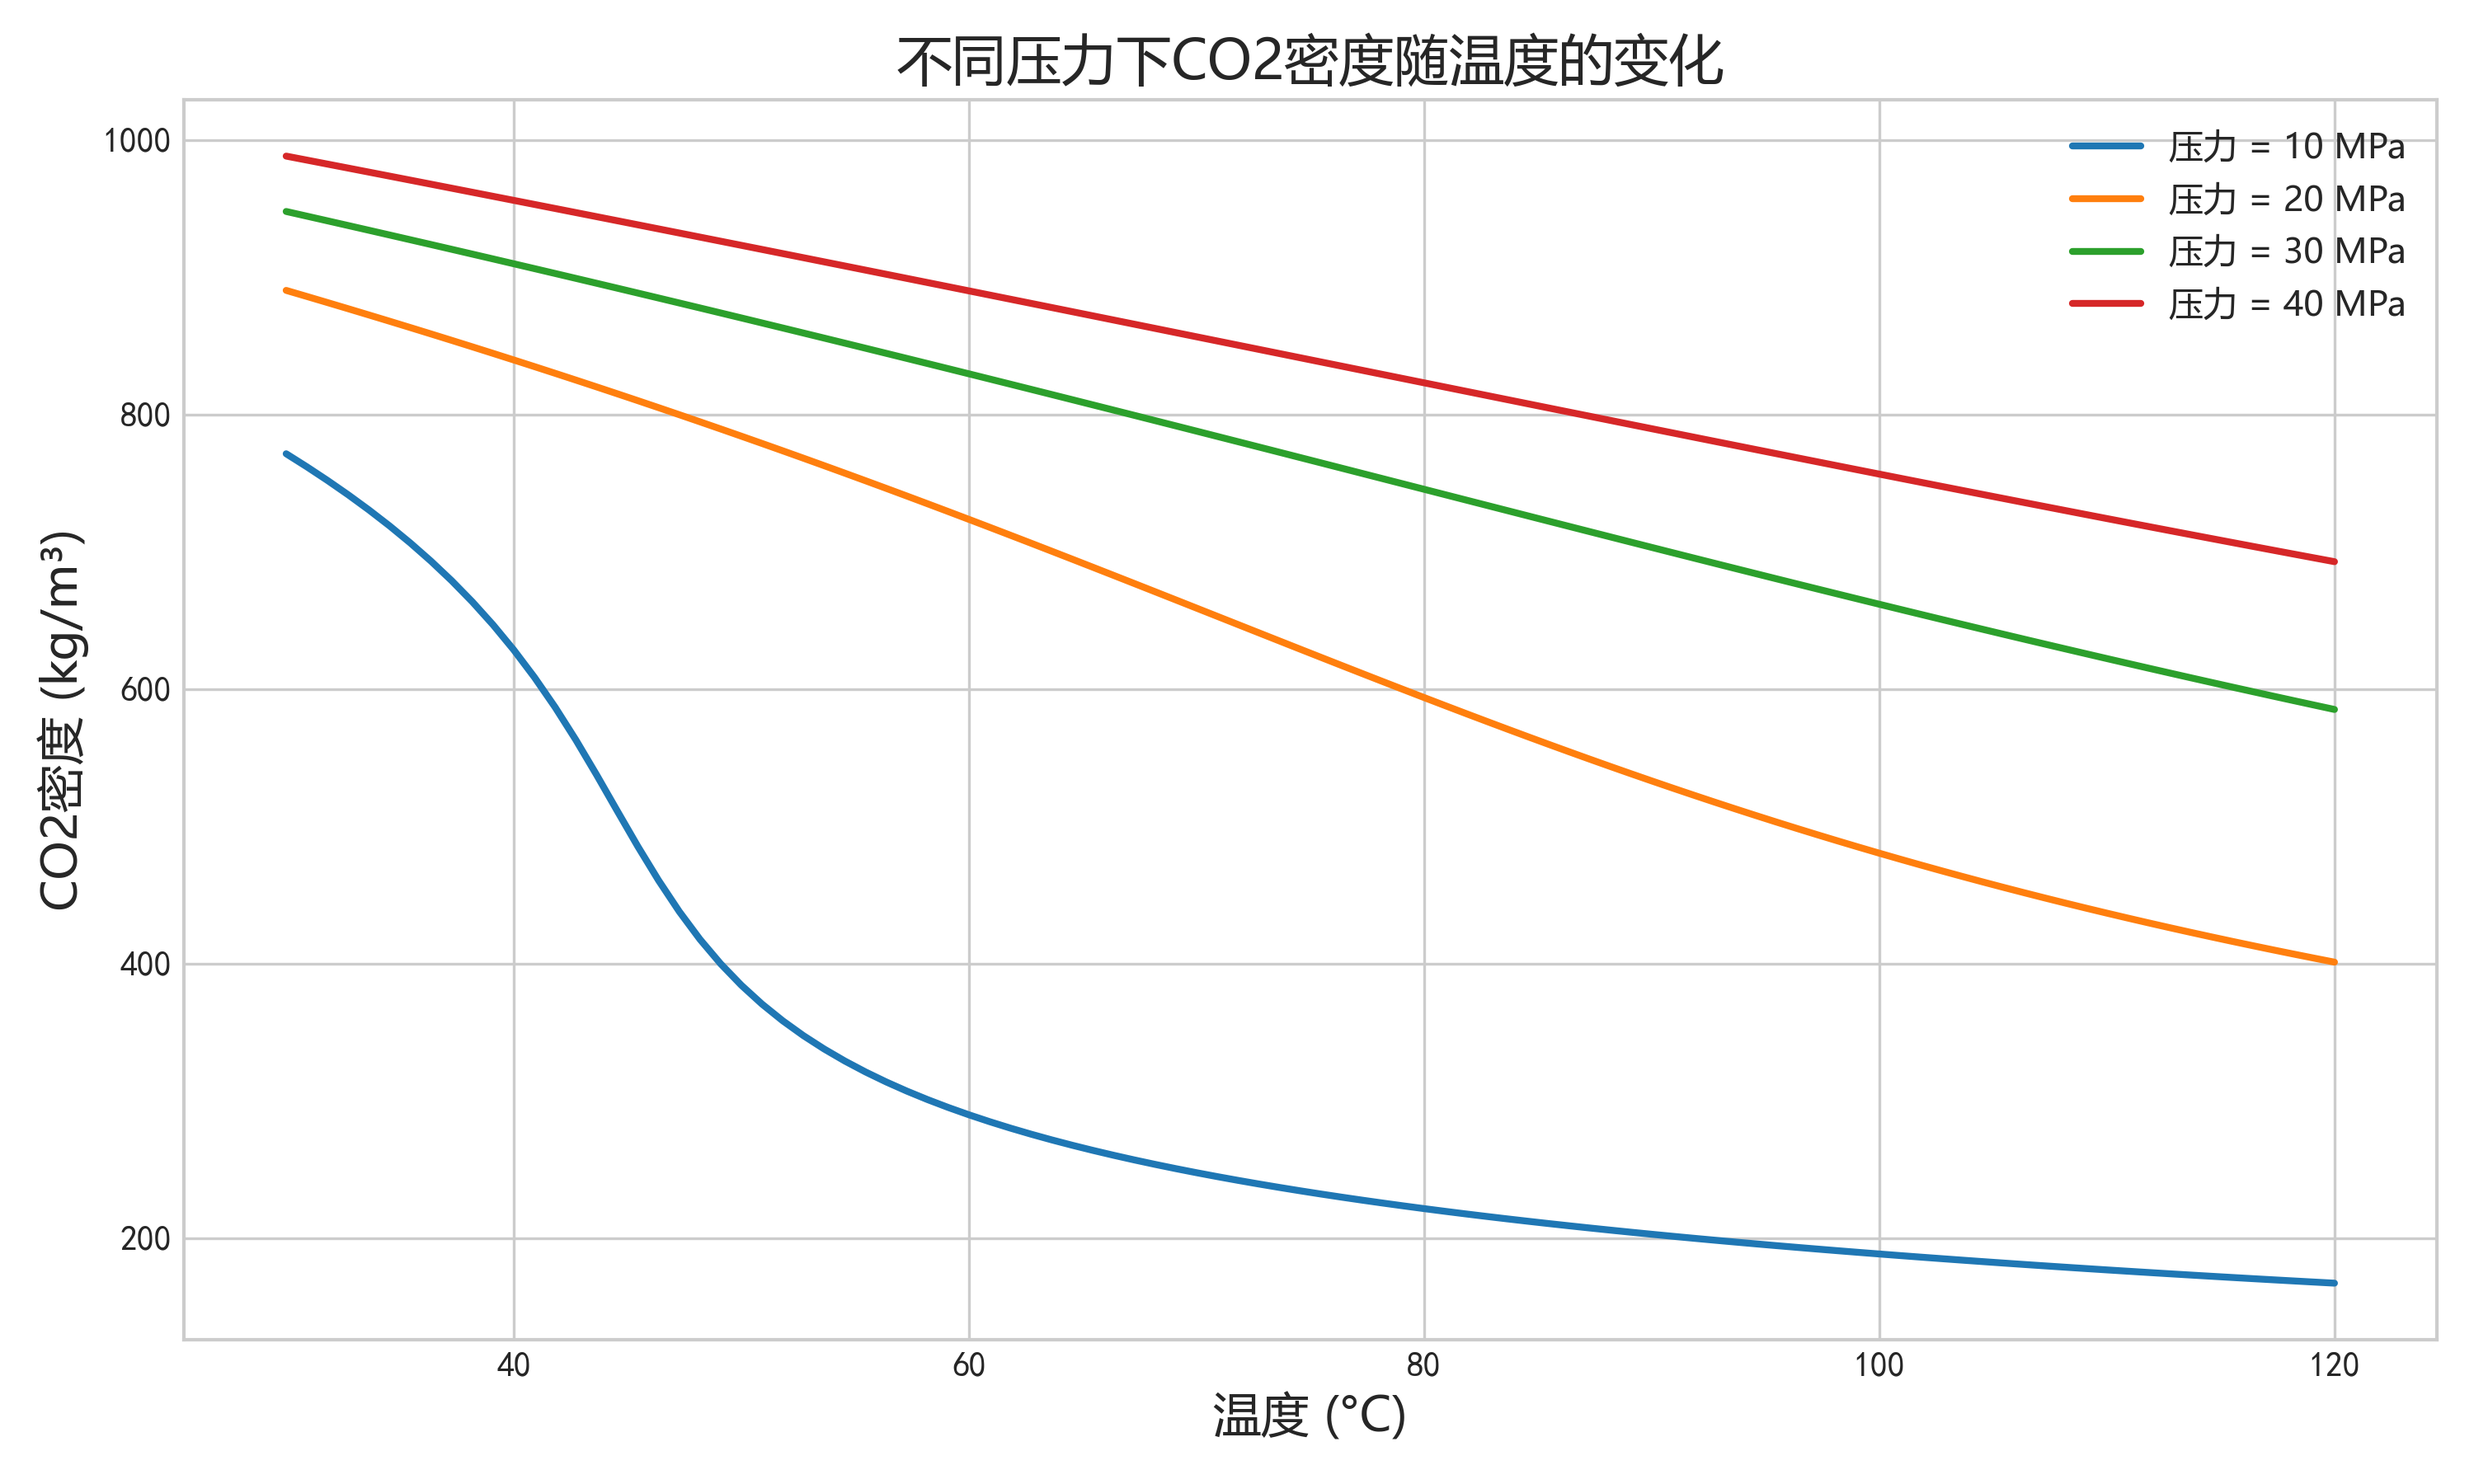
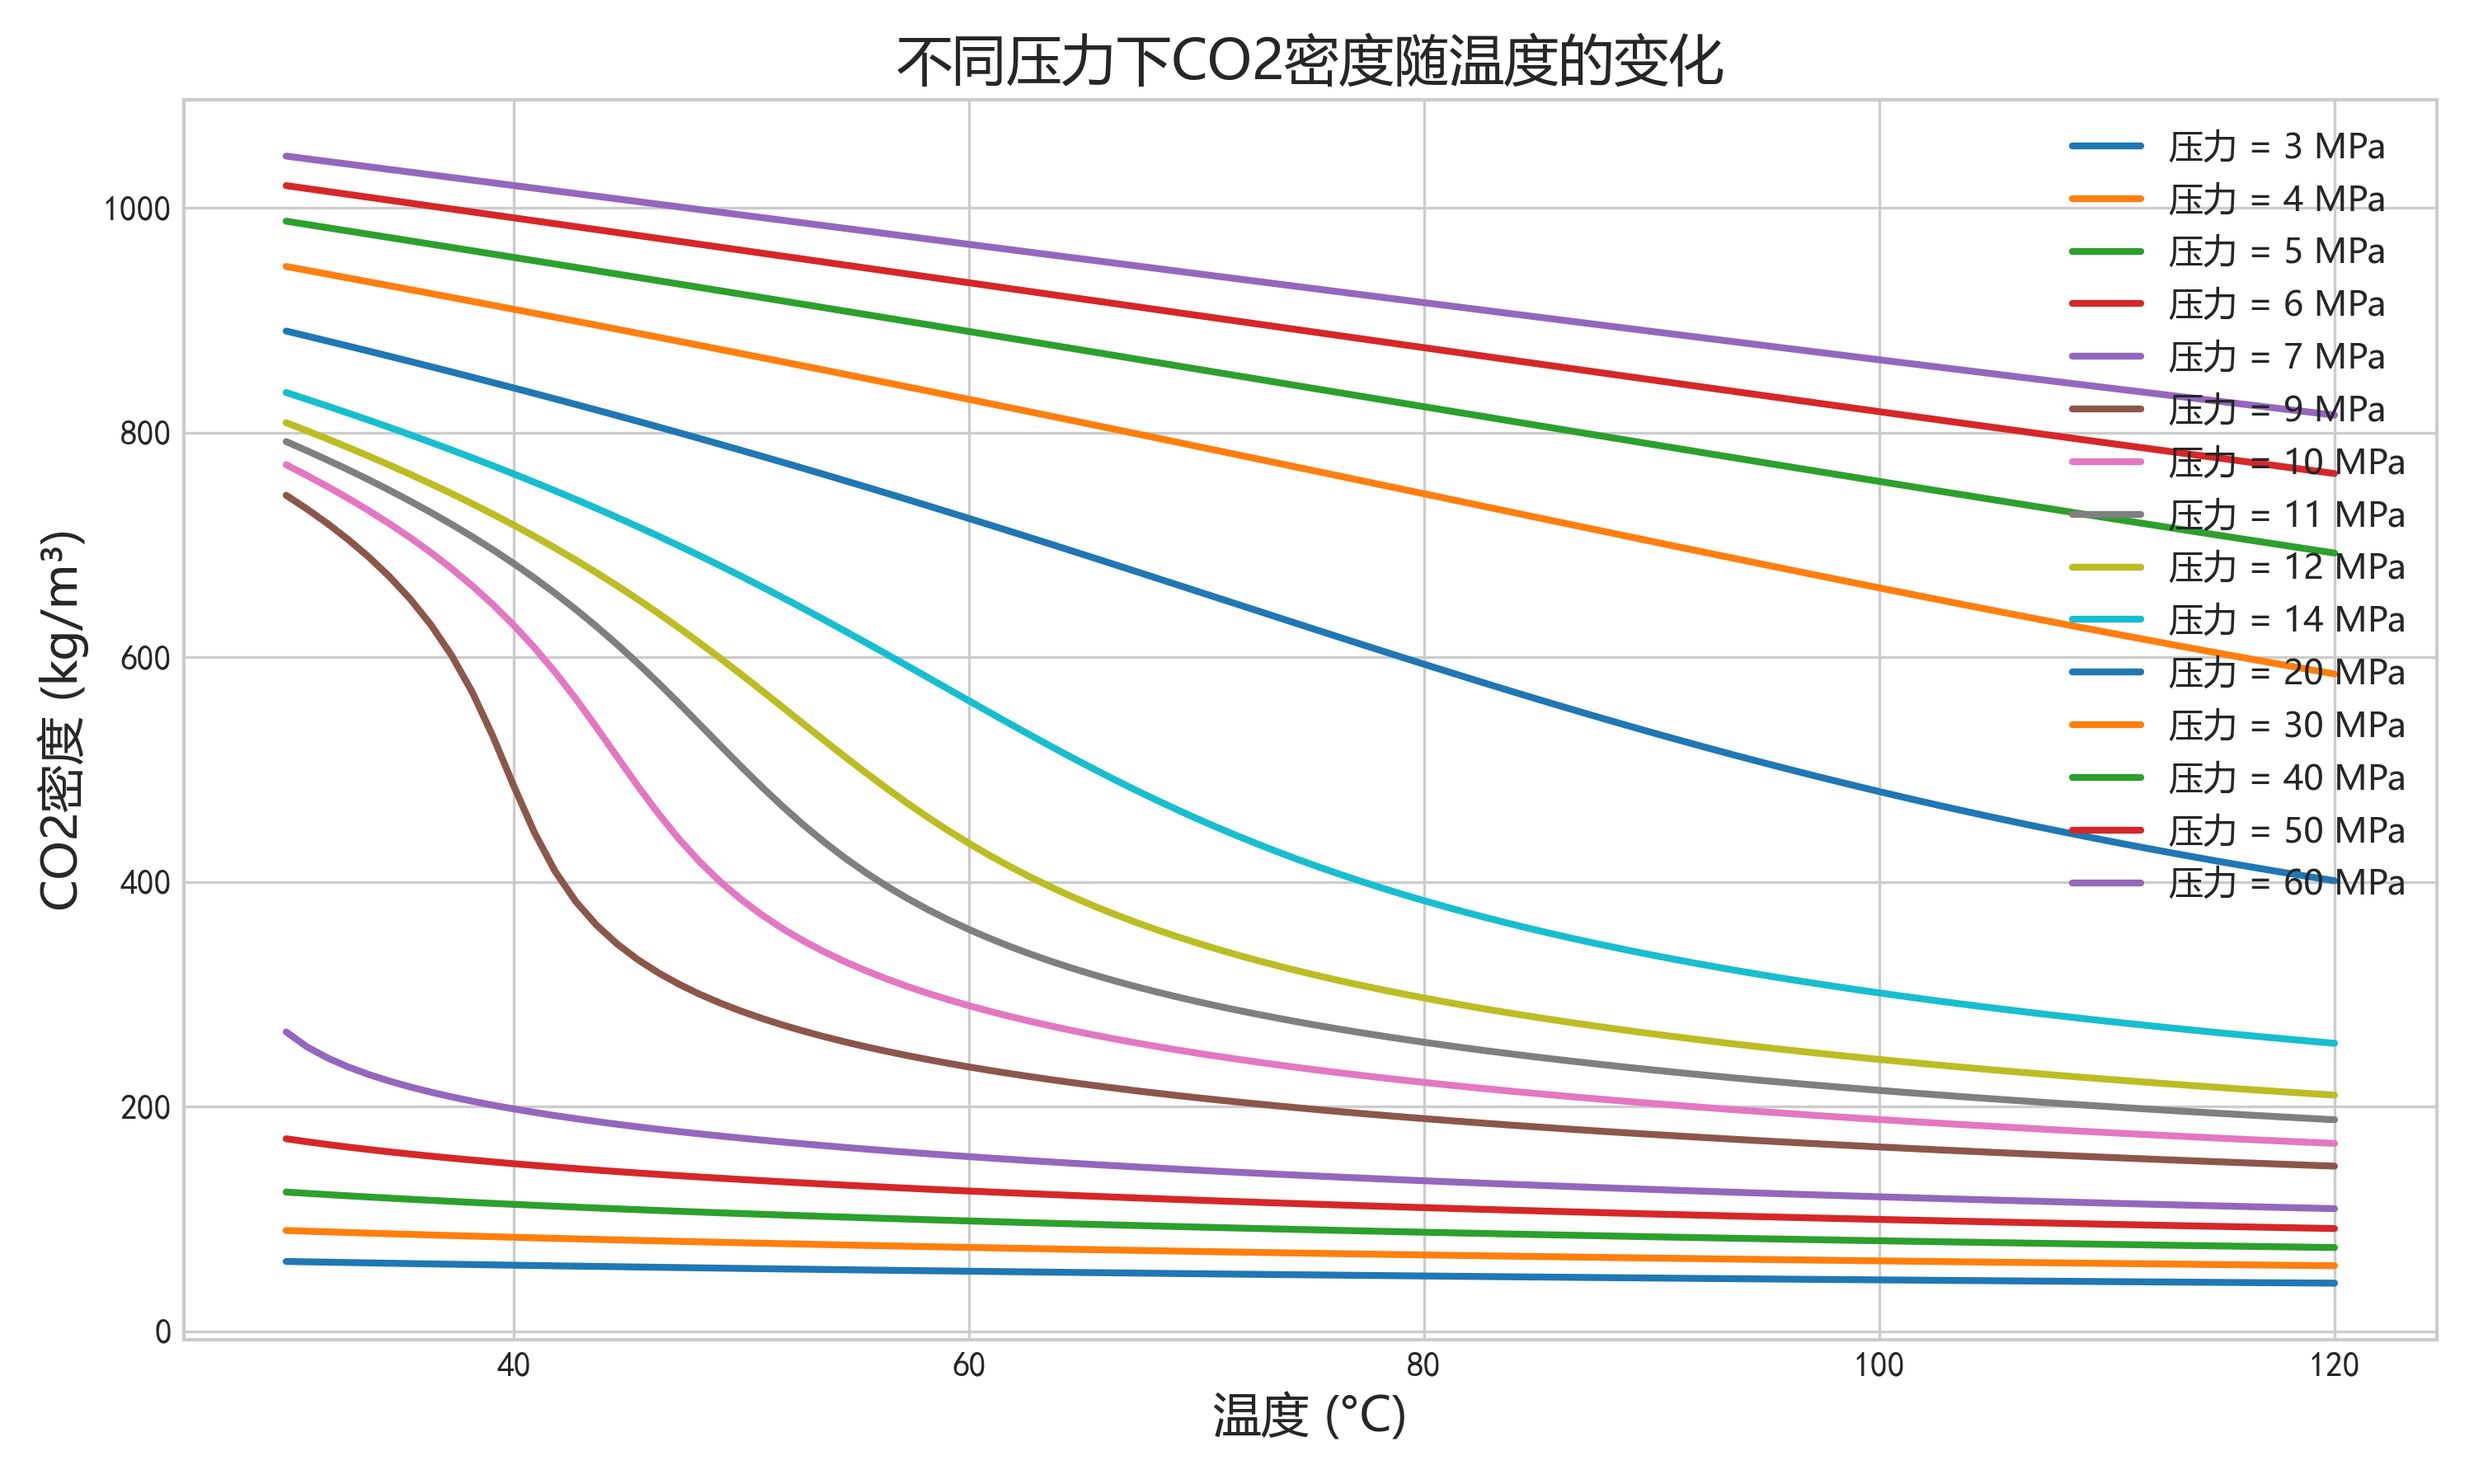
最终

diff --git a/solution.py b/solution.py
@@ -28,8 +28,8 @@ basins = {
         'avg_thickness': 115,  # 平均厚度 (m)
         'avg_porosity': 0.1,  # 平均孔隙度
         'avg_depth': 2250,     # 平均深度 (m)
-        'avg_temperature': 75,  # 长期平均温度 (°C)
-        'avg_pressure': 23,     # 长期平均压力 (MPa)
+        'avg_temperature': 80,  # 长期平均温度 (°C)
+        'avg_pressure': 20,     # 长期平均压力 (MPa)
         'salinity': 85000,     # 盐度（溶解盐的浓度） (ppm)
     },
     '二连盆地': {
@@ -37,8 +37,8 @@ basins = {
         'avg_thickness': 75,
         'avg_porosity': 0.08,
         'avg_depth': 2750,
-        'avg_temperature': 85,
-        'avg_pressure': 27,
+        'avg_temperature': 71,
+        'avg_pressure': 18,
         'salinity': 110000,
     },
     '鄂尔多斯盆地': {
@@ -46,8 +46,8 @@ basins = {
         'avg_thickness': 160,
         'avg_porosity': 0.06,
         'avg_depth': 3000,
-        'avg_temperature': 95,
-        'avg_pressure': 33,
+        'avg_temperature': 90,
+        'avg_pressure': 25,
         'salinity': 150000,
     },
     '渤海湾盆地': {
@@ -55,8 +55,8 @@ basins = {
         'avg_thickness': 140,
         'avg_porosity': 0.13,
         'avg_depth': 2500,
-        'avg_temperature': 85,
-        'avg_pressure': 28,
+        'avg_temperature': 88,
+        'avg_pressure': 23,
         'salinity': 130000,
     },
     '苏北盆地': {
@@ -64,8 +64,8 @@ basins = {
         'avg_thickness': 90,
         'avg_porosity': 0.15,
         'avg_depth': 2000,
-        'avg_temperature': 72,
-        'avg_pressure': 20,
+        'avg_temperature': 67,
+        'avg_pressure': 18,
         'salinity': 75000,
     },
     '江汉盆地': {
@@ -73,8 +73,8 @@ basins = {
         'avg_thickness': 120,
         'avg_porosity': 0.11,
         'avg_depth': 1800,
-        'avg_temperature': 65,
-        'avg_pressure': 15,
+        'avg_temperature': 83,
+        'avg_pressure': 23,
         'salinity': 220000,
     },
     '四川盆地': {
@@ -82,8 +82,8 @@ basins = {
         'avg_thickness': 220,
         'avg_porosity': 0.03,
         'avg_depth': 4000,
-        'avg_temperature': 125,
-        'avg_pressure': 50,
+        'avg_temperature': 98,
+        'avg_pressure': 30,
         'salinity': 280000,
     },
     '柴达木盆地': {
@@ -91,8 +91,8 @@ basins = {
         'avg_thickness': 180,
         'avg_porosity': 0.12,
         'avg_depth': 1750,
-        'avg_temperature': 55,
-        'avg_pressure': 15,
+        'avg_temperature': 105,
+        'avg_pressure': 27,
         'salinity': 300000,
     },
     '准噶尔盆地': {
@@ -100,8 +100,8 @@ basins = {
         'avg_thickness': 300,
         'avg_porosity': 0.1,
         'avg_depth': 3000,
-        'avg_temperature': 85,
-        'avg_pressure': 33,
+        'avg_temperature': 83,
+        'avg_pressure': 23,
         'salinity': 115000,
     },
     '塔里木盆地': {
@@ -109,8 +109,8 @@ basins = {
         'avg_thickness': 450,
         'avg_porosity': 0.05,
         'avg_depth': 4500,
-        'avg_temperature': 115,
-        'avg_pressure': 47,
+        'avg_temperature': 125,
+        'avg_pressure': 40,
         'salinity': 220000,
     },
     '海拉尔盆地': {
@@ -118,8 +118,8 @@ basins = {
         'avg_thickness': 65,
         'avg_porosity': 0.12,
         'avg_depth': 2000,
-        'avg_temperature': 65,
-        'avg_pressure': 20,
+        'avg_temperature': 68,
+        'avg_pressure': 18,
         'salinity': 85000,
     }
 }
@@ -208,7 +208,7 @@ def estimate_co2_efficiency_factor(depth, porosity, temperature, pressure, salin
     考虑深度、孔隙度、温度、压力和盐度的综合影响
     """
     # 基础效率因子（行业经验值通常在0.2-0.6之间）
-    base_factor = 0.25
+    base_factor = 0.35
     
     # 深度调整（深度越大，压力越大，CO2越容易压缩进孔隙）
     depth_adjustment = 0.08 * np.tanh(depth / 3000)
@@ -559,7 +559,7 @@ def visualize_results(capacity_results, sensitivity_results):
     plt.savefig('efficiency_factor_relationship.png', dpi=300)
     
     # 7. CO2密度与温度的关系曲线 (新增)
-    typical_pressures = [10, 20, 30, 40]  # MPa
+    typical_pressures = [7, 9, 10, 11, 12, 14, 20, 30, 40, 50, 60]  # MPa
     temps = np.linspace(30, 120, 100)  # °C
     
     plt.figure(figsize=(10, 6))
